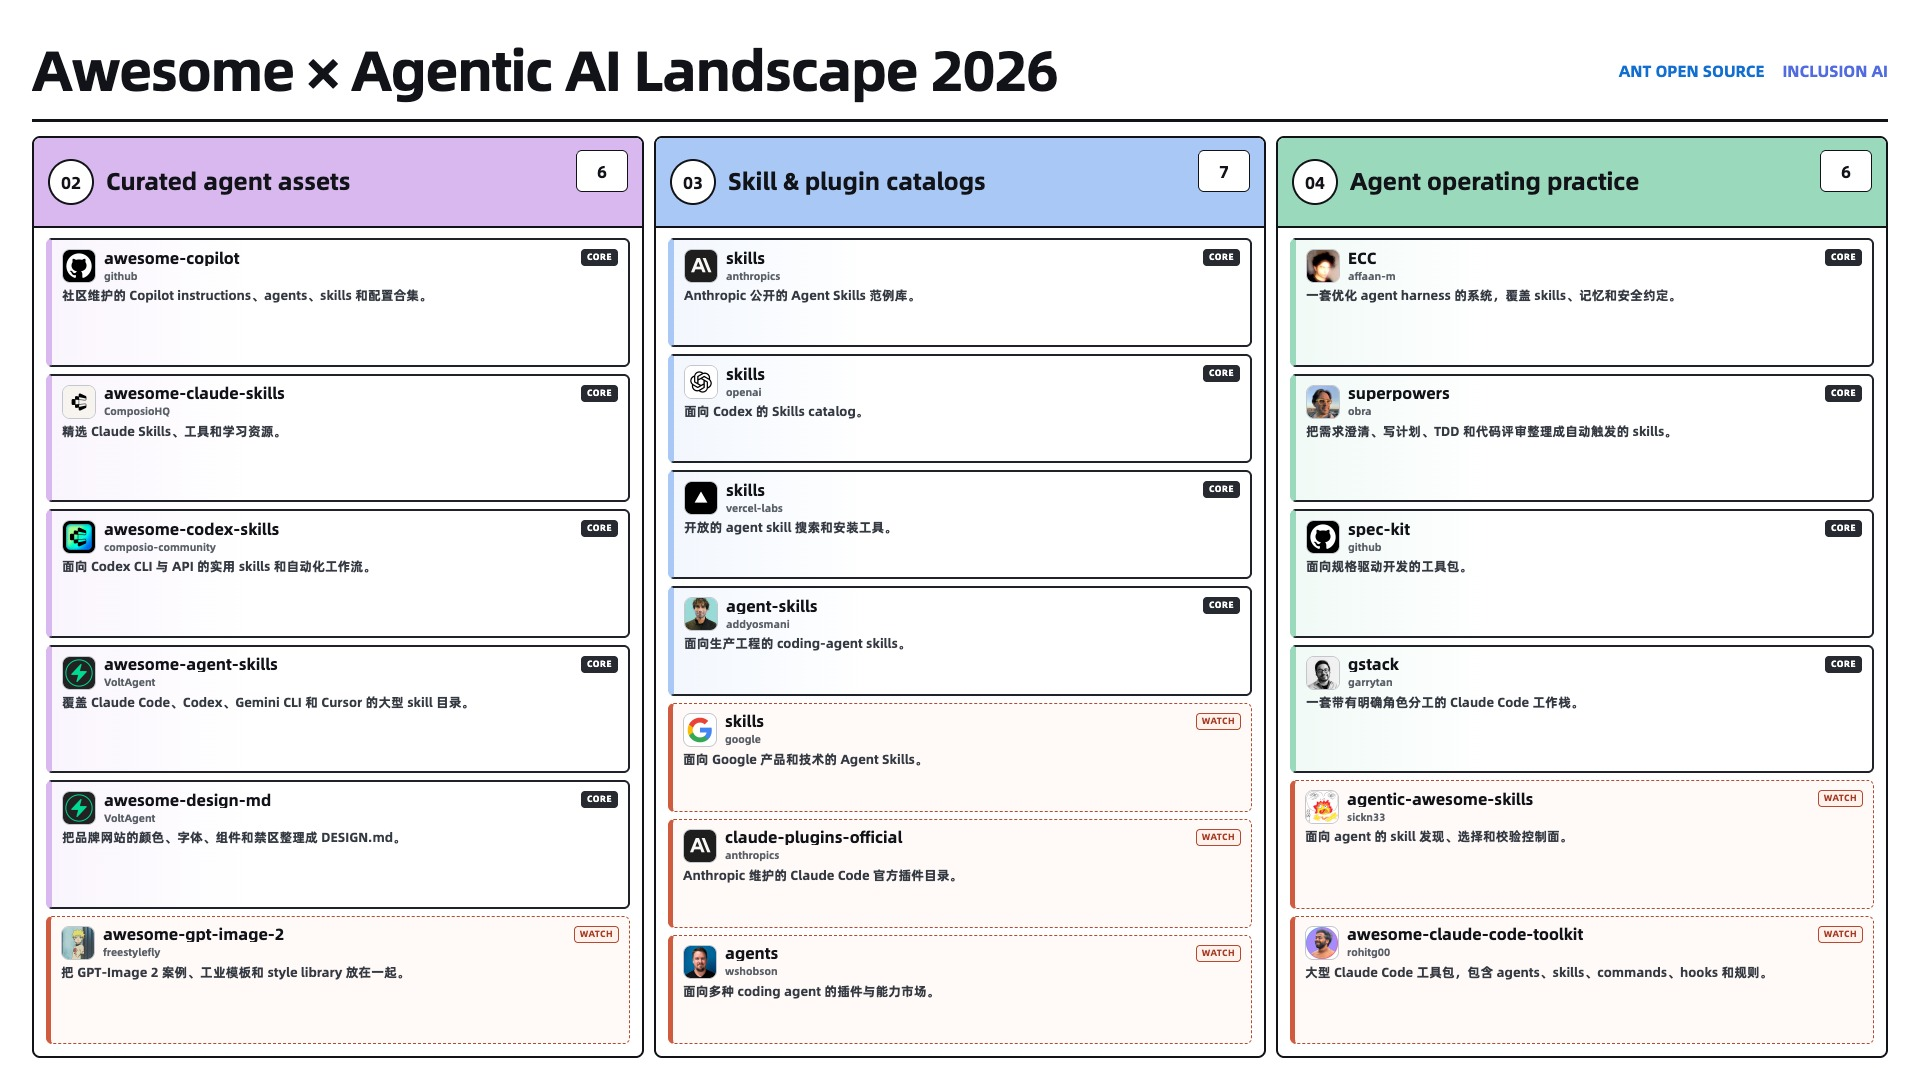
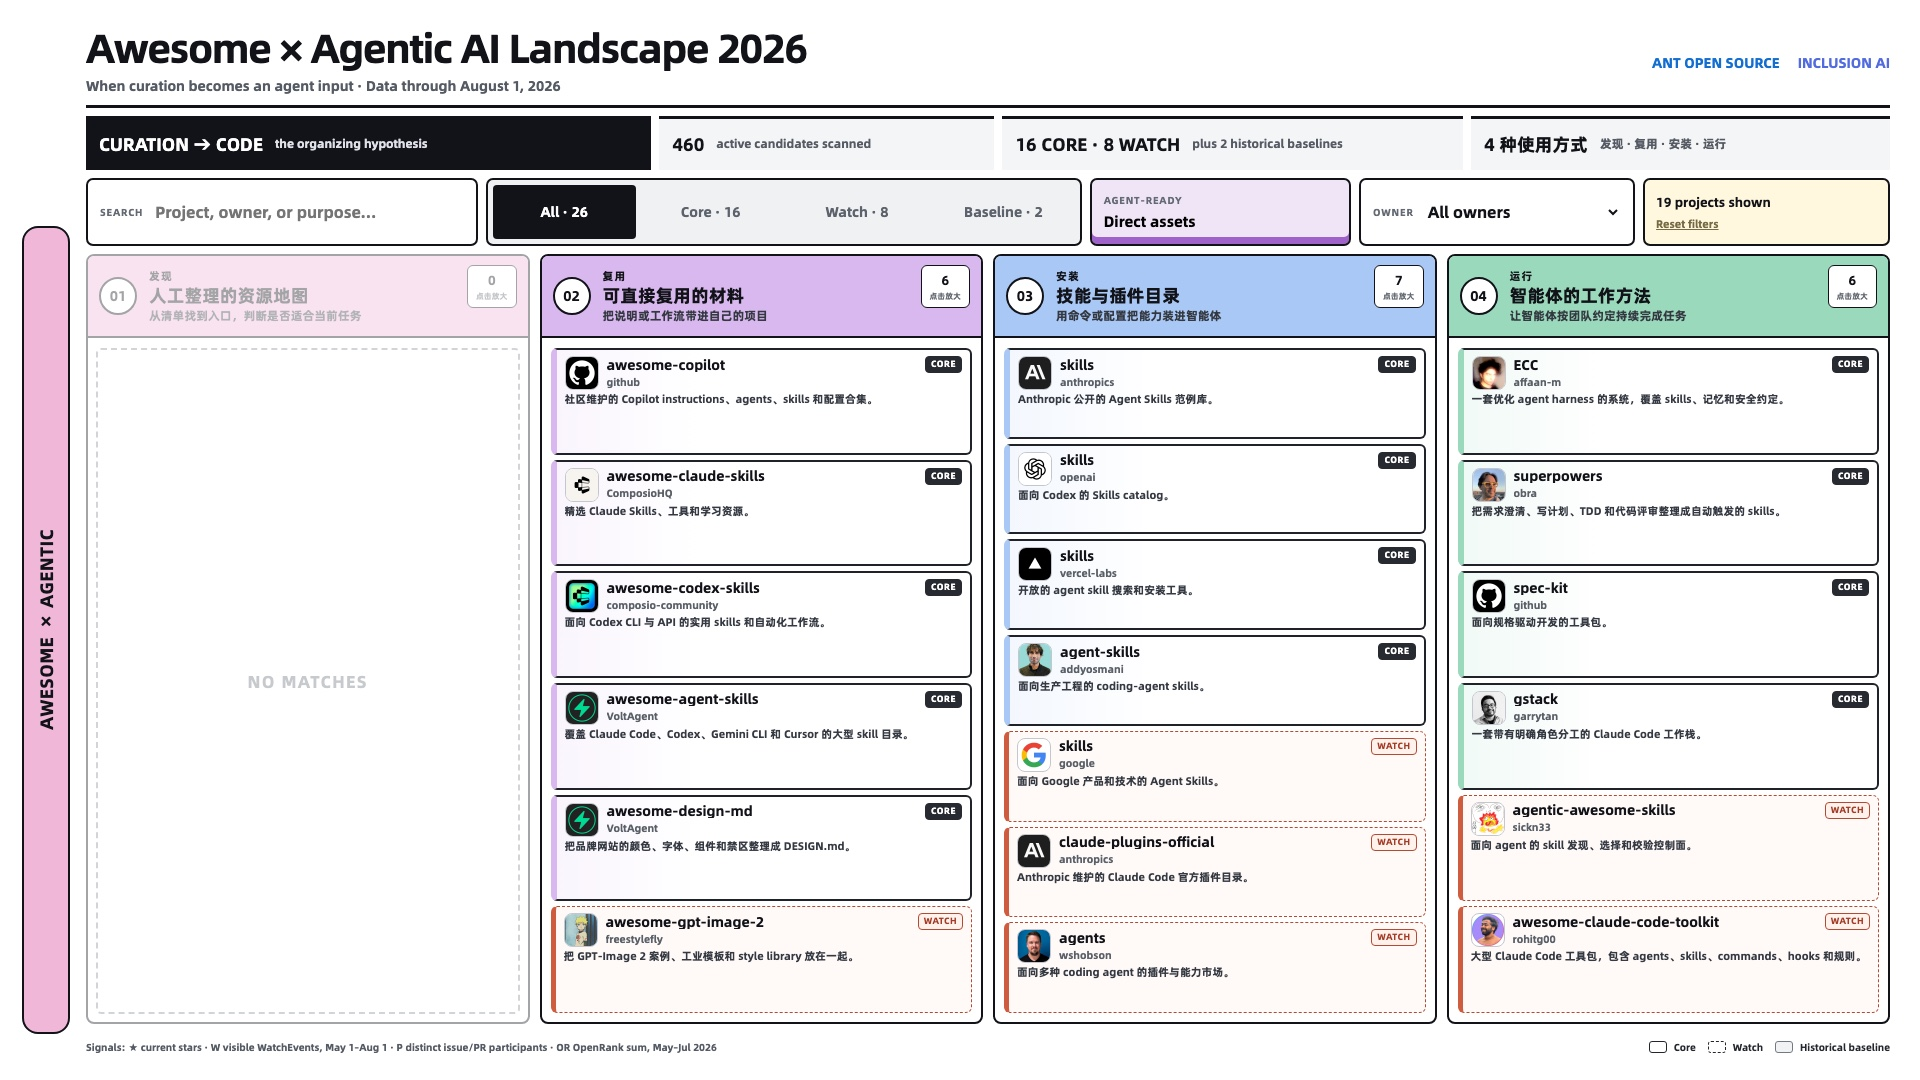
feat: localize Awesome landscape stages

diff --git a/insights/260807-CoC-KN/awesome-agentic-landscape/interactive/awesome_agentic_landscape_2026.html b/insights/260807-CoC-KN/awesome-agentic-landscape/interactive/awesome_agentic_landscape_2026.html
@@ -572,7 +572,7 @@
       <div class="summary-item"><strong>CURATION → CODE</strong><span>the organizing hypothesis</span></div>
       <div class="summary-item"><strong>460</strong><span>active candidates scanned</span></div>
       <div class="summary-item"><strong>16 CORE · 8 WATCH</strong><span>plus 2 historical baselines</span></div>
-      <div class="summary-item"><strong>4 FORMS</strong><span>discover · reuse · install · operate</span></div>
+      <div class="summary-item"><strong>4 种使用方式</strong><span>发现 · 复用 · 安装 · 运行</span></div>
     </section>
     <section class="explore-toolbar" aria-label="Explore awesome projects">
       <label class="project-search" for="project-search">
@@ -610,9 +610,9 @@
         <button class="stage-heading" type="button" aria-pressed="false">
           <span class="stage-number">01</span>
           <div>
-            <div class="stage-verb">DISCOVER</div>
-            <h2>Human-curated maps</h2>
-            <p>Read, browse, and choose</p>
+            <div class="stage-verb">发现</div>
+            <h2>人工整理的资源地图</h2>
+            <p>从清单找到入口，判断是否适合当前任务</p>
           </div>
           <span class="stage-count">5<small>点击放大</small></span>
         </button>
@@ -764,9 +764,9 @@
         <button class="stage-heading" type="button" aria-pressed="false">
           <span class="stage-number">02</span>
           <div>
-            <div class="stage-verb">REUSE</div>
-            <h2>Curated agent assets</h2>
-            <p>Copy, adapt, or drop in</p>
+            <div class="stage-verb">复用</div>
+            <h2>可直接复用的材料</h2>
+            <p>把说明或工作流带进自己的项目</p>
           </div>
           <span class="stage-count">7<small>点击放大</small></span>
         </button>
@@ -972,9 +972,9 @@
         <button class="stage-heading" type="button" aria-pressed="false">
           <span class="stage-number">03</span>
           <div>
-            <div class="stage-verb">INSTALL</div>
-            <h2>Skill &amp; plugin catalogs</h2>
-            <p>Resolve and load into an agent</p>
+            <div class="stage-verb">安装</div>
+            <h2>技能与插件目录</h2>
+            <p>用命令或配置把能力装进智能体</p>
           </div>
           <span class="stage-count">7<small>点击放大</small></span>
         </button>
@@ -1180,9 +1180,9 @@
         <button class="stage-heading" type="button" aria-pressed="false">
           <span class="stage-number">04</span>
           <div>
-            <div class="stage-verb">OPERATE</div>
-            <h2>Agent operating practice</h2>
-            <p>Plan, coordinate, review, and run</p>
+            <div class="stage-verb">运行</div>
+            <h2>智能体的工作方法</h2>
+            <p>让智能体按团队约定持续完成任务</p>
           </div>
           <span class="stage-count">7<small>点击放大</small></span>
         </button>

diff --git a/public/keynote/awesome/awesome_agentic_landscape_2026.html b/public/keynote/awesome/awesome_agentic_landscape_2026.html
@@ -572,7 +572,7 @@
       <div class="summary-item"><strong>CURATION → CODE</strong><span>the organizing hypothesis</span></div>
       <div class="summary-item"><strong>460</strong><span>active candidates scanned</span></div>
       <div class="summary-item"><strong>16 CORE · 8 WATCH</strong><span>plus 2 historical baselines</span></div>
-      <div class="summary-item"><strong>4 FORMS</strong><span>discover · reuse · install · operate</span></div>
+      <div class="summary-item"><strong>4 种使用方式</strong><span>发现 · 复用 · 安装 · 运行</span></div>
     </section>
     <section class="explore-toolbar" aria-label="Explore awesome projects">
       <label class="project-search" for="project-search">
@@ -610,9 +610,9 @@
         <button class="stage-heading" type="button" aria-pressed="false">
           <span class="stage-number">01</span>
           <div>
-            <div class="stage-verb">DISCOVER</div>
-            <h2>Human-curated maps</h2>
-            <p>Read, browse, and choose</p>
+            <div class="stage-verb">发现</div>
+            <h2>人工整理的资源地图</h2>
+            <p>从清单找到入口，判断是否适合当前任务</p>
           </div>
           <span class="stage-count">5<small>点击放大</small></span>
         </button>
@@ -764,9 +764,9 @@
         <button class="stage-heading" type="button" aria-pressed="false">
           <span class="stage-number">02</span>
           <div>
-            <div class="stage-verb">REUSE</div>
-            <h2>Curated agent assets</h2>
-            <p>Copy, adapt, or drop in</p>
+            <div class="stage-verb">复用</div>
+            <h2>可直接复用的材料</h2>
+            <p>把说明或工作流带进自己的项目</p>
           </div>
           <span class="stage-count">7<small>点击放大</small></span>
         </button>
@@ -972,9 +972,9 @@
         <button class="stage-heading" type="button" aria-pressed="false">
           <span class="stage-number">03</span>
           <div>
-            <div class="stage-verb">INSTALL</div>
-            <h2>Skill &amp; plugin catalogs</h2>
-            <p>Resolve and load into an agent</p>
+            <div class="stage-verb">安装</div>
+            <h2>技能与插件目录</h2>
+            <p>用命令或配置把能力装进智能体</p>
           </div>
           <span class="stage-count">7<small>点击放大</small></span>
         </button>
@@ -1180,9 +1180,9 @@
         <button class="stage-heading" type="button" aria-pressed="false">
           <span class="stage-number">04</span>
           <div>
-            <div class="stage-verb">OPERATE</div>
-            <h2>Agent operating practice</h2>
-            <p>Plan, coordinate, review, and run</p>
+            <div class="stage-verb">运行</div>
+            <h2>智能体的工作方法</h2>
+            <p>让智能体按团队约定持续完成任务</p>
           </div>
           <span class="stage-count">7<small>点击放大</small></span>
         </button>

diff --git a/insights/260807-CoC-KN/awesome-agentic-landscape/interactive/awesome_interactive.css b/insights/260807-CoC-KN/awesome-agentic-landscape/interactive/awesome_interactive.css
@@ -109,7 +109,8 @@ h1 {
   border-radius: 4px;
   background: transparent;
   color: #5d636c;
-  font-size: 12px;
+  font-size: 14px;
+  font-weight: 720;
   font-weight: 900;
   cursor: pointer;
 }
@@ -198,7 +199,8 @@ h1 {
 
 .stage-heading p {
   margin-top: 4px;
-  font-size: 10px;
+  font-size: 12px;
+  line-height: 1.2;
 }
 
 .stage-count {

diff --git a/public/keynote/awesome/awesome_interactive.css b/public/keynote/awesome/awesome_interactive.css
@@ -109,7 +109,8 @@ h1 {
   border-radius: 4px;
   background: transparent;
   color: #5d636c;
-  font-size: 12px;
+  font-size: 14px;
+  font-weight: 720;
   font-weight: 900;
   cursor: pointer;
 }
@@ -198,7 +199,8 @@ h1 {
 
 .stage-heading p {
   margin-top: 4px;
-  font-size: 10px;
+  font-size: 12px;
+  line-height: 1.2;
 }
 
 .stage-count {

diff --git a/insights/260807-CoC-KN/landscape-notes/awesome-agentic.md b/insights/260807-CoC-KN/landscape-notes/awesome-agentic.md
@@ -14,10 +14,10 @@
 
 这张图不按技术栈分类，而按消费方式排列：
 
-- **Discover**：帮助找到项目和资源；
-- **Reuse**：可以复制、引用或带入任务；
-- **Install**：提供明确的安装与注册入口；
-- **Operate**：直接改变 Agent 的工作方式。
+- **发现**：从人工整理的清单找到项目入口；
+- **复用**：把现成的说明或工作流带进自己的任务；
+- **安装**：通过命令、清单或配置安装并注册能力；
+- **运行**：把团队的工作约定交给 Agent 持续执行。
 
 四个阶段表达使用方式，不是成熟度评分。
 
